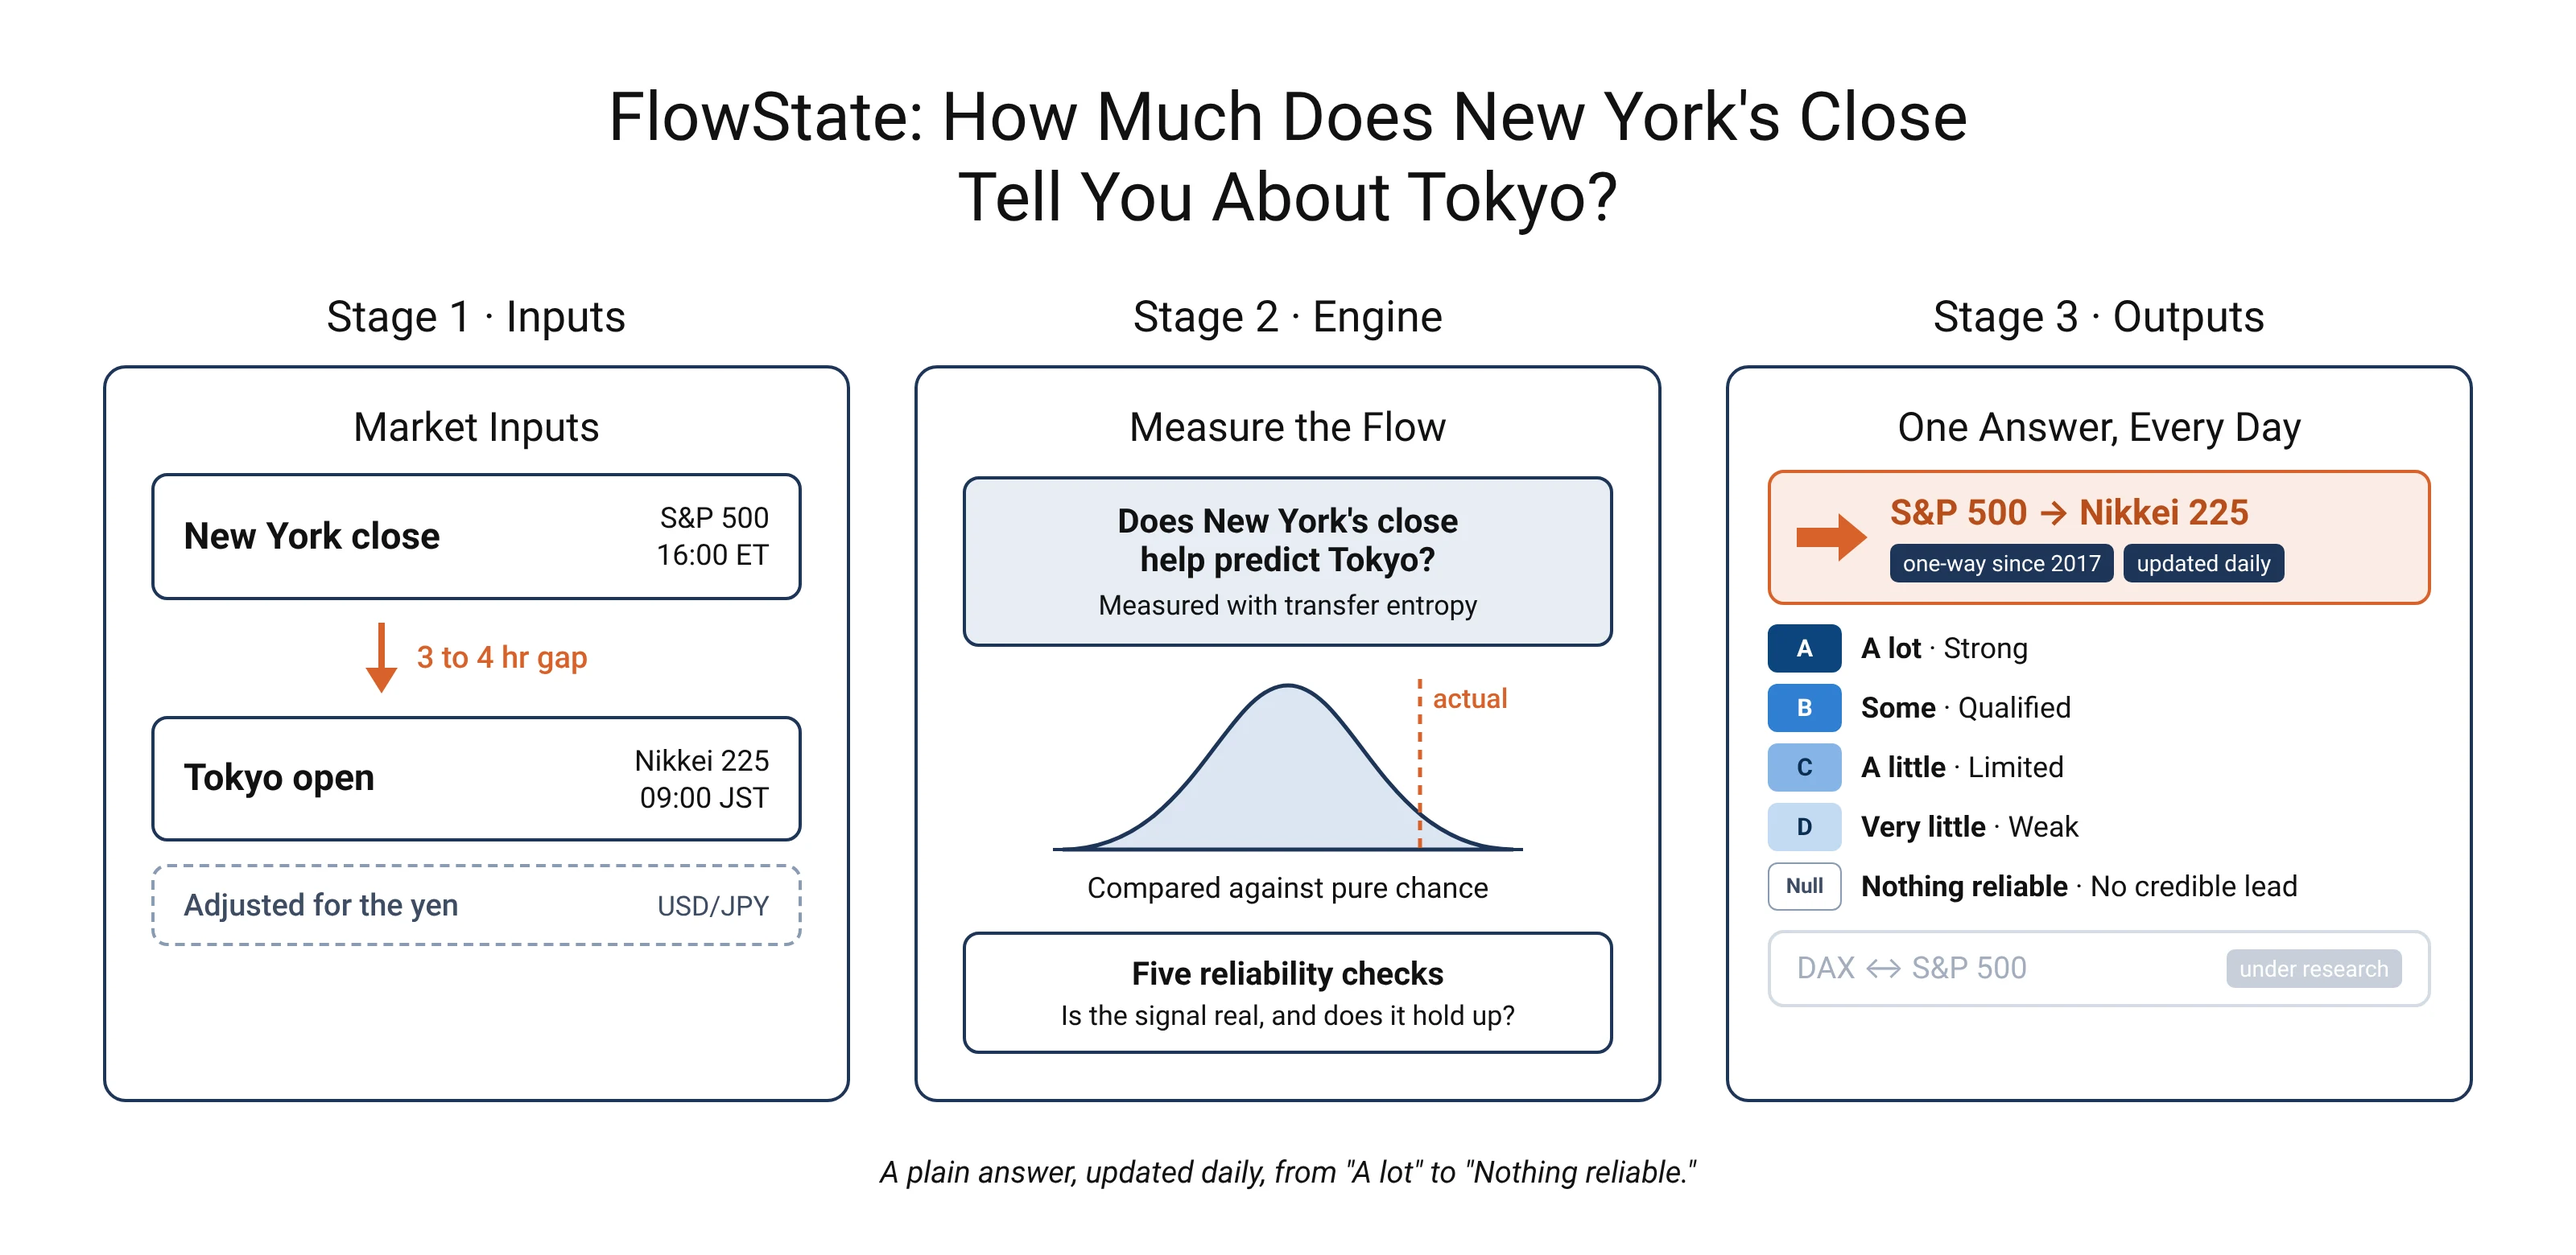
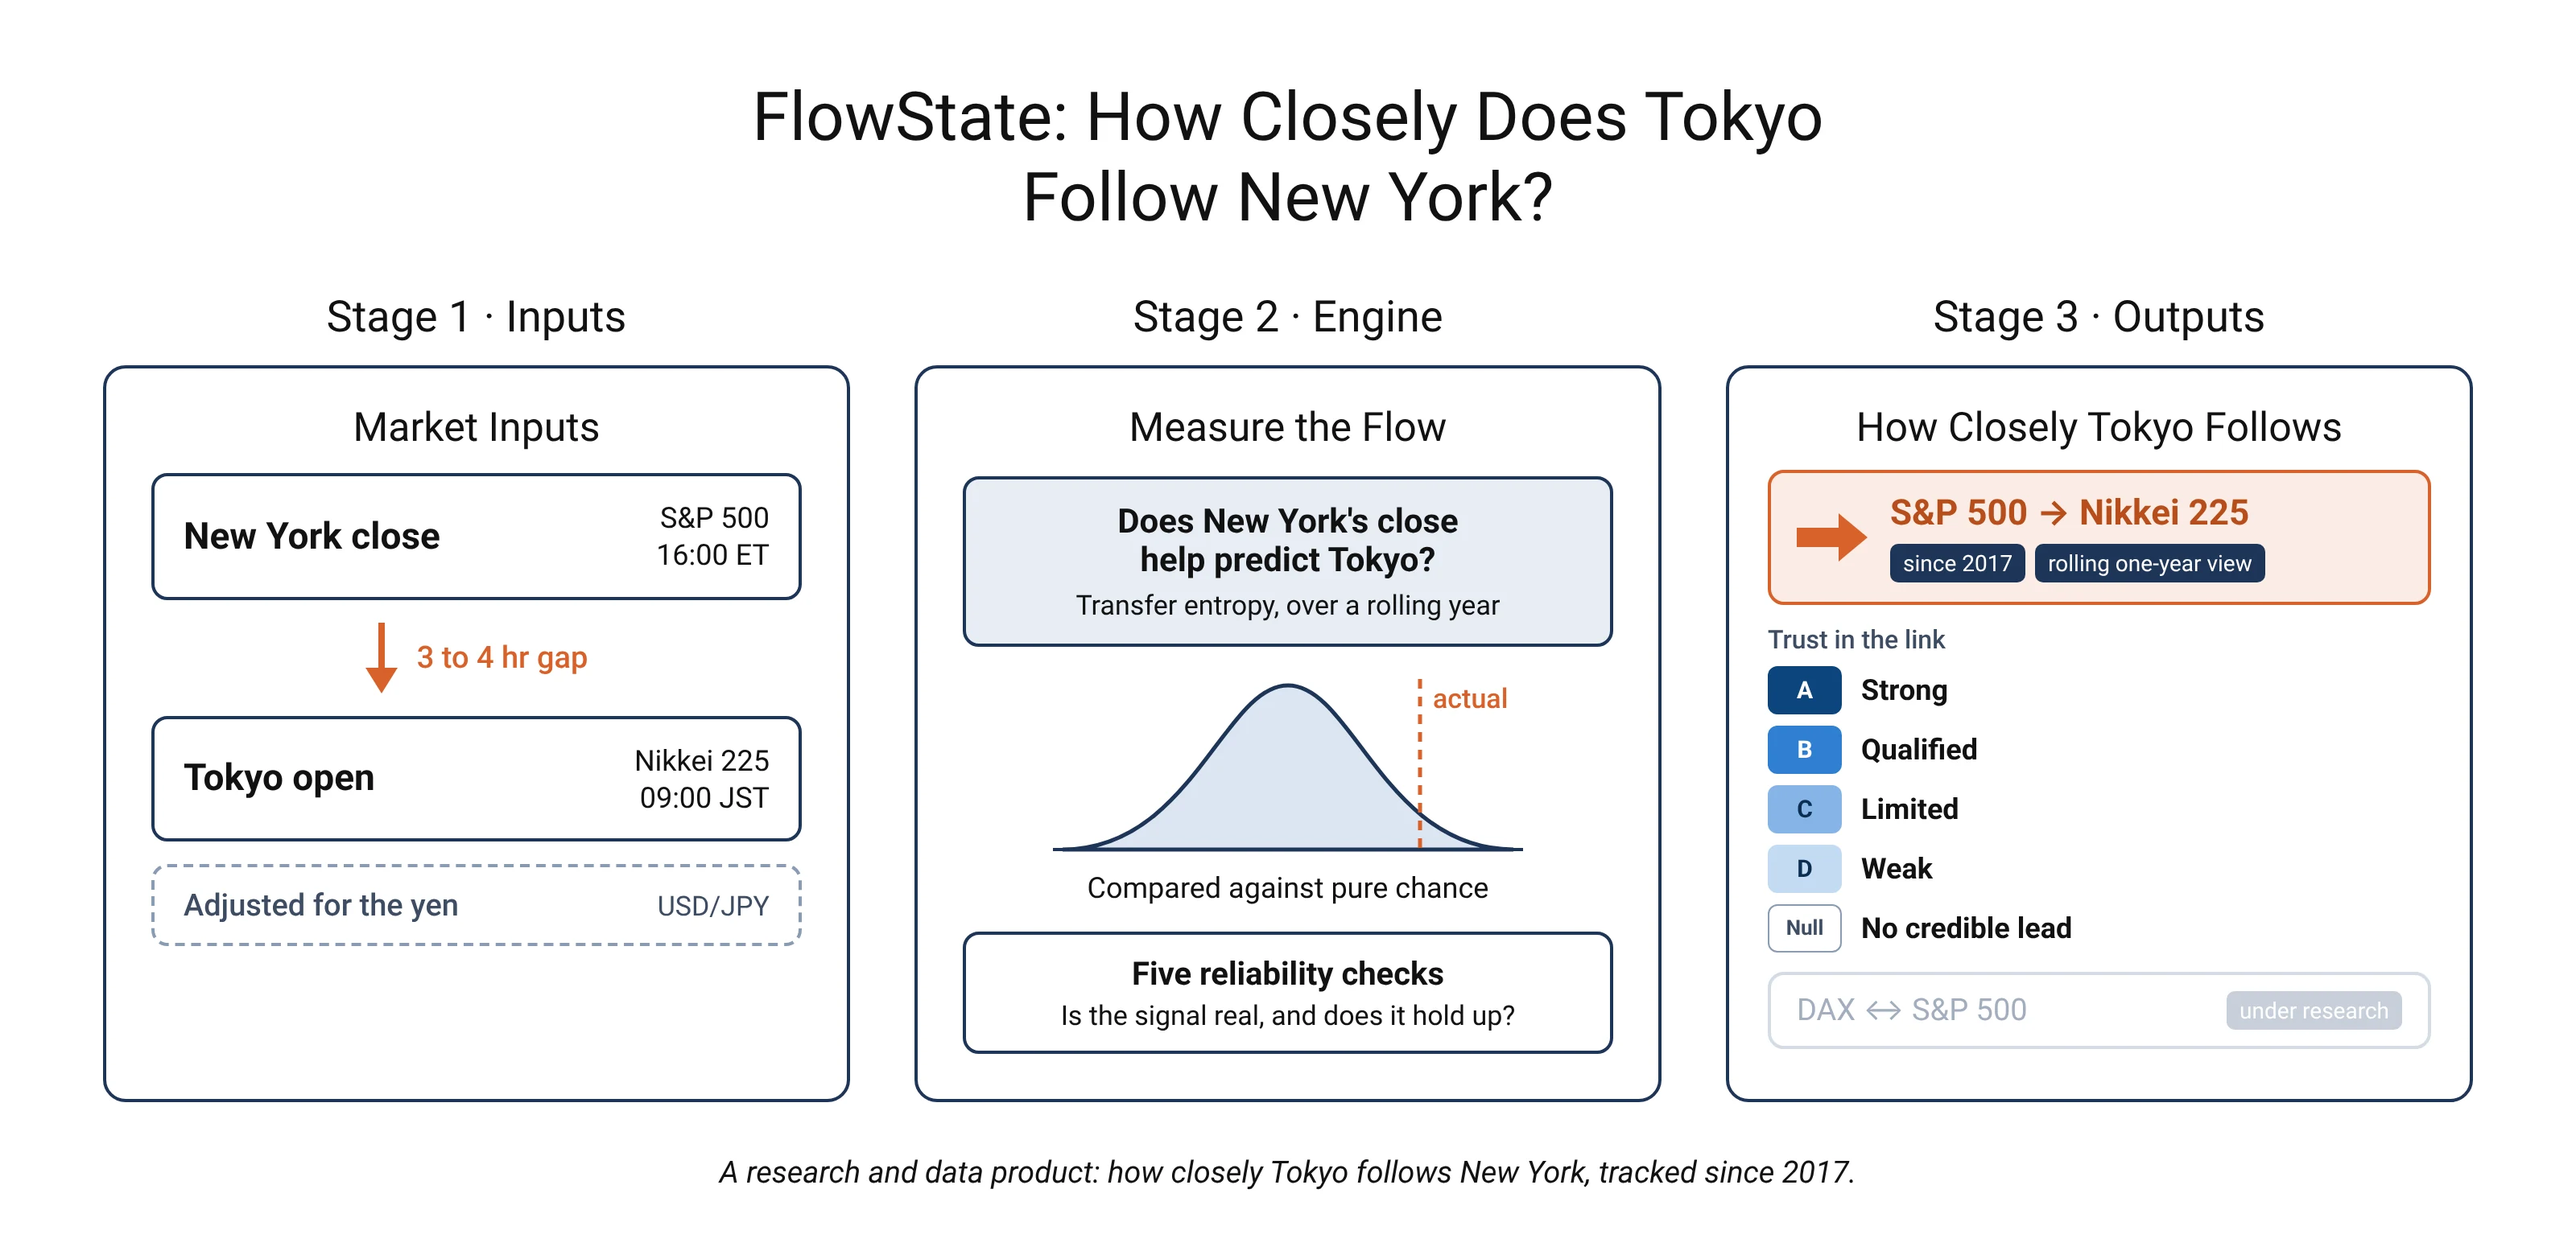
Updated FlowState web content

diff --git a/_projects/project-6.md b/_projects/project-6.md
@@ -1,7 +1,7 @@
 ---
 layout: page
 title: "FlowState"
-description: "How much New York's close tells you about Tokyo, every day"
+description: "How closely Tokyo follows New York, tracked since 2017"
 img: assets/images/gen/projects/flowstatethumb.webp
 tags: quant  
 related_publications: true
@@ -11,13 +11,13 @@ date: 2026-05-22
 ---
 
 
-> Every day, FlowState measures how much the S&P 500's close helps predict the Nikkei 225's next daily move.
-
-New York's close guides Tokyo some days. Other days, it's noise. FlowState tells you which.
+> For years, Tokyo followed New York closely. Since August 2024, barely. FlowState tracks that link, day by day, back to 2017.
 
 **[FlowState in action → click here](https://flowstate.nippotica.com/)**
 
-New York closes a few hours before Tokyo opens. FlowState measures how much of Tokyo's next move was already in New York's close, using Transfer Entropy {% cite schreiber2000measuring %}. Then it gives you one plain answer, from "A lot" to "Nothing reliable."
+New York closes a few hours before Tokyo opens. FlowState measures how much New York's close helps predict Tokyo's next move, using Transfer Entropy {% cite schreiber2000measuring %}. Each reading covers the past year of trading and gets a grade, from Strong to No credible lead.
+
+FlowState is a research and data product. It shows how closely Tokyo follows New York over time. It is not a daily trading signal.
 
 {% include figure.liquid path="assets/images/gen/projects/flowstatehero2.webp" class="img-fluid rounded" %}
 
@@ -25,38 +25,35 @@ New York closes a few hours before Tokyo opens. FlowState measures how much of T
 
 ### Insights
 
-- **The flow runs one way.** Since 2017, New York's close has carried information about Tokyo. Tokyo has carried no detectable information back.
-- **Its strength changes.** Before August 2024, the link was strong on 68% of trading days. Since then, on 17%.
+- **The direction holds.** In every period with a detectable link since 2017, information has flowed from New York to Tokyo.
+- **The strength does not.** Before August 2024, the link was graded Strong on 68% of trading days. Since then, on 17%.
 
 ---
 
 ### Why FlowState
 
-- **It sees direction.** Correlation tells you two markets move together. It can't tell you which one moves first. FlowState can, and on every day with a detectable link since 2017, the answer has been New York.
-- **It tells you when to ignore it.** Most signals always have something to say. FlowState says "Nothing reliable" when the data doesn't support a reading. A weak day is labeled as one.
-- **It takes the yen out.** When the yen moves, both markets can move with it. FlowState strips that shared push out, so the reading reflects what New York itself is telling Tokyo.
-- **It shows its track record.** Every reading since 2017 is one click away, with major shocks marked, from the 2020 COVID crash to the 2024 yen carry unwind.
+- **It sees direction.** Correlation tells you two markets move together. It can't tell you which one moves first. FlowState can.
+- **It says when there's nothing to see.** When the data doesn't support a link, FlowState says so: "No credible lead." A weak period is labeled as one.
+- **It takes the yen out.** When the yen moves, both markets can move with it. FlowState strips out that shared push, so the reading reflects New York's own influence on Tokyo.
+- **It shows the full record.** Every reading since 2017 is one click away, with major shocks marked, from the 2020 COVID crash to the 2024 yen carry unwind.
 
 ---
 
 ### Use Cases
 
-- **The overnight question.** The S&P 500 fell 2% overnight. Will Tokyo follow? FlowState tells you how much New York's close has been worth for Tokyo lately. On an "A lot" day, New York is a reliable guide. On a "Very little" day, look to local drivers instead.
-- **Testing your model's assumptions.** Many cross-market models assume Tokyo takes its cue from New York. FlowState shows, day by day since 2017, when that held and when it broke down.
-- **Reviewing a shock.** After a crash or a policy surprise, see how tightly Tokyo was tied to New York going in. The 2024 yen carry unwind hit when the link was still strong.
-- **Briefing a committee.** One plain answer per day, with a grade behind it. No statistics lesson required.
+- **Testing a model's assumptions.** Many cross-market models assume Tokyo takes its cue from New York. FlowState shows when that held and when it broke down.
+- **Spotting a regime change.** The link weakened after August 2024 and has stayed weak. FlowState shows shifts like this as they build, not years later.
+- **Reviewing a shock.** See how tightly Tokyo was tied to New York in the year leading up to a crash or a policy surprise.
 
 ---
 
 ### Methodology
 
-Every day, FlowState asks one question: does knowing New York's close help predict Tokyo's next session, beyond what Tokyo's own recent history already tells you?
+FlowState asks one question: does knowing New York's close help predict Tokyo's next move, beyond what Tokyo's own recent history already tells you?
 
-It answers with Transfer Entropy, a measure from information theory that detects the direction of information flow without assuming markets behave in any particular way. {% cite dimpfl2018analyzing kuang2021measuring %} Each reading looks back over about one year of trading days.
+It answers with Transfer Entropy, a measure from information theory that detects the direction of information flow without assuming markets behave in any particular way. {% cite dimpfl2018analyzing kuang2021measuring %} Each reading is compared against shuffled versions of the same data, then graded by five reliability checks.
 
 Validated on the Nikkei 225 and S&P 500 pair, with DAX and S&P 500 under active research. Other pairs, such as HSI, FTSE, and ASX, are available on request, subject to validation.
-
-FlowState is a research measure, not a trading recommendation.
 
 ---
 
